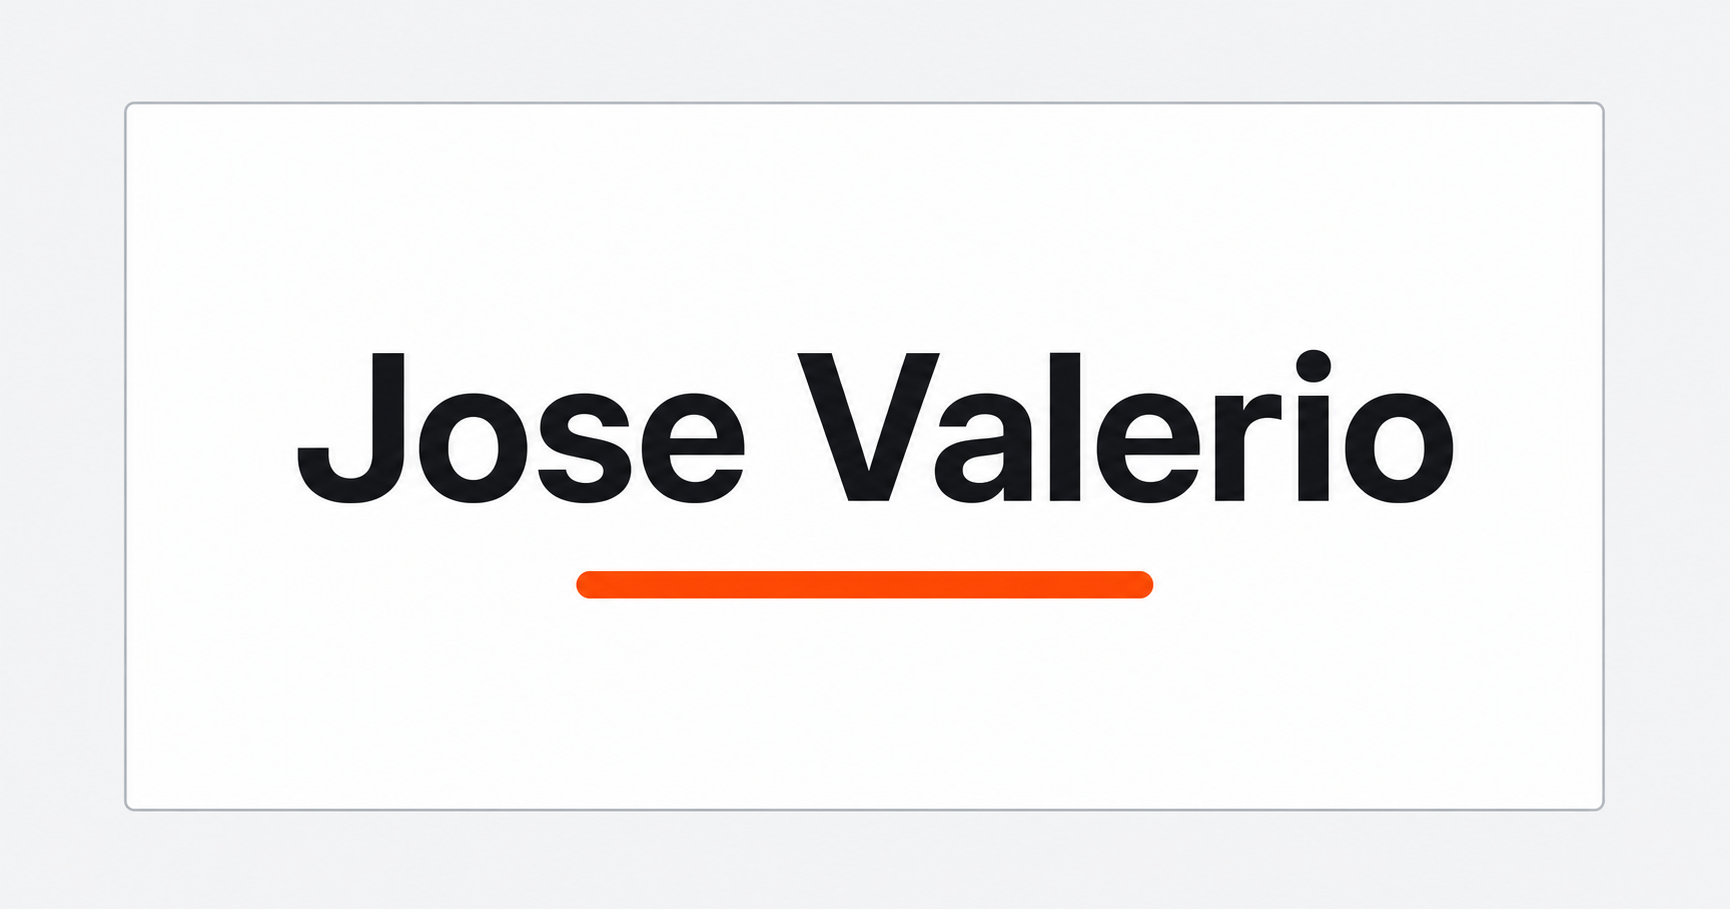
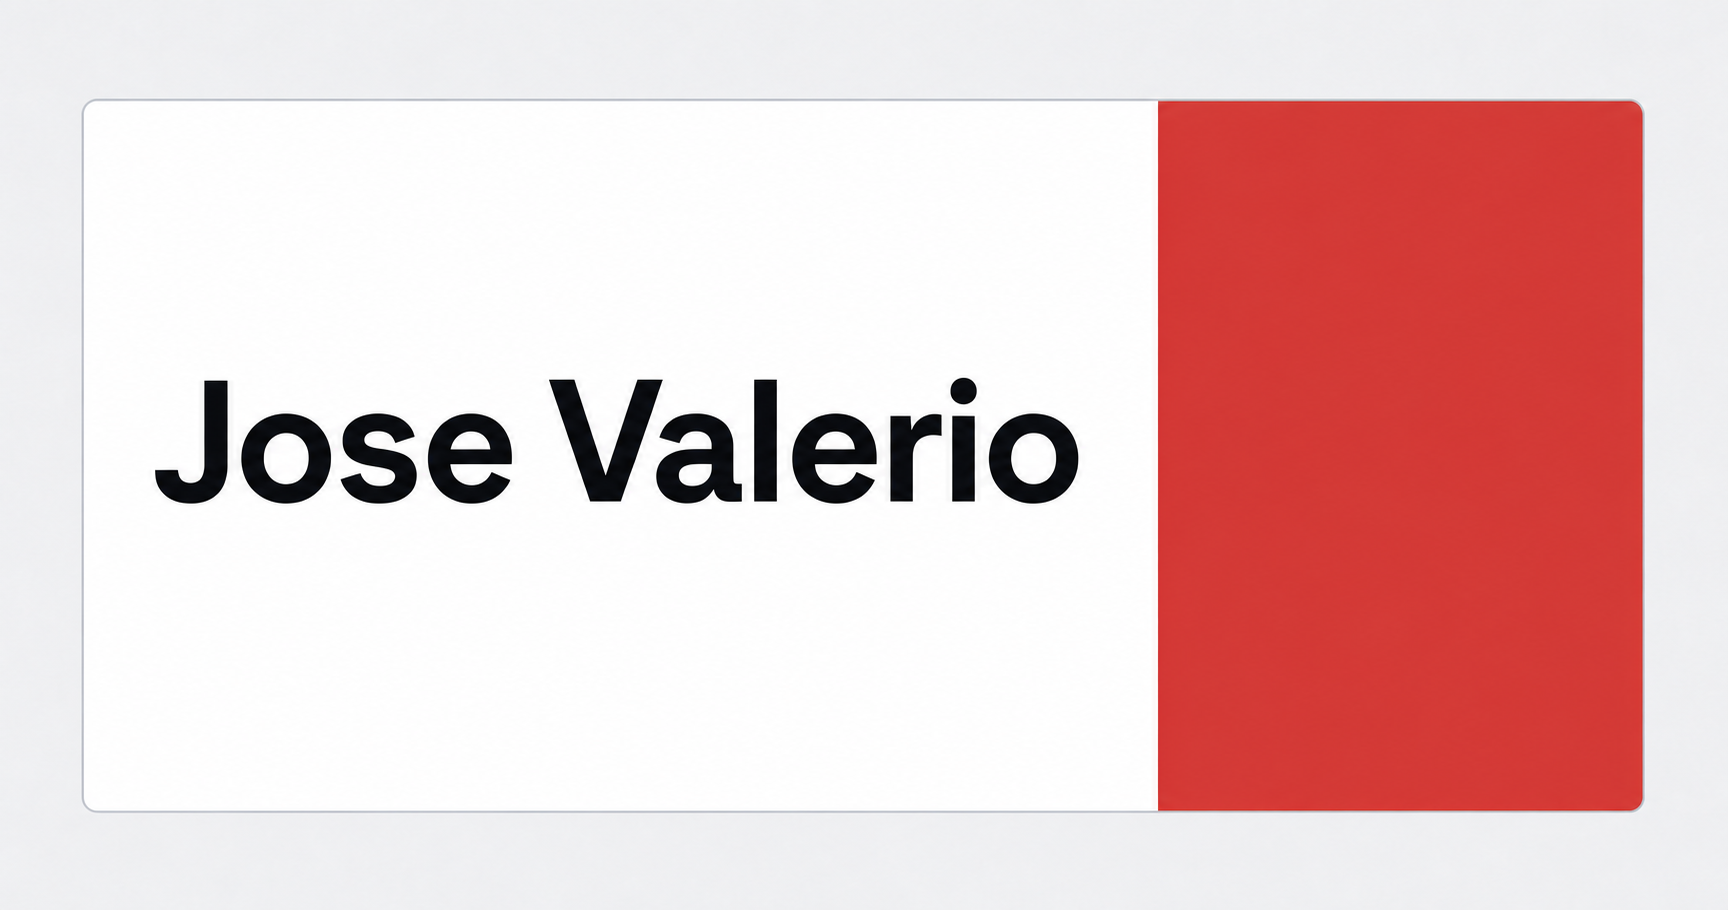
Adopt blood red accent palette

Changed region(s): [[0.0625, 0.0924, 0.9688, 0.8933], [0.0625, 0.8625, 0.0938, 0.8933]]

diff --git a/app/app.css b/app/app.css
@@ -18,8 +18,8 @@
   --muted: #69707b;
   --line: #dfe2e7;
   --line-strong: #c7cbd2;
-  --accent: oklch(64.6% 0.222 41.116);
-  --accent-soft: oklch(96.5% 0.035 41.116);
+  --accent: #d04842;
+  --accent-soft: color-mix(in oklch, var(--accent) 8%, white);
   --sans: "Atkinson Hyperlegible Next Variable", ui-sans-serif, system-ui,
     -apple-system, BlinkMacSystemFont, "Segoe UI", sans-serif;
   --code: "SFMono-Regular", "Cascadia Code", "Roboto Mono", Consolas,
@@ -61,7 +61,7 @@ button {
 }
 
 ::selection {
-  background: oklch(88% 0.08 41.116);
+  background: color-mix(in oklch, var(--accent) 28%, white);
   color: var(--ink);
 }
 
@@ -145,16 +145,6 @@ button {
   font-weight: 700;
   letter-spacing: -0.045em;
   line-height: 1;
-}
-
-.hero-name::after {
-  display: block;
-  width: 3.5rem;
-  height: 0.3rem;
-  margin-top: 1rem;
-  border-radius: 999px;
-  background: var(--accent);
-  content: "";
 }
 
 .email-button {
@@ -461,7 +451,7 @@ button {
 .text-link {
   color: var(--accent);
   text-decoration: underline;
-  text-decoration-color: oklch(78% 0.13 41.116);
+  text-decoration-color: color-mix(in oklch, var(--accent) 48%, white);
   text-decoration-thickness: 1px;
   text-underline-offset: 0.16em;
 }
@@ -472,7 +462,7 @@ button {
 
 .article-callout {
   padding: 1rem 1.1rem;
-  border: 1px solid #f2c3b7;
+  border: 1px solid color-mix(in oklch, var(--accent) 30%, white);
   border-left: 3px solid var(--accent);
   border-radius: 0.2rem;
   background: var(--accent-soft);

diff --git a/app/data/siteMeta.ts b/app/data/siteMeta.ts
@@ -6,11 +6,11 @@ export function getSocialMeta() {
       property: "og:image",
       content: "https://josevalerio.com/og.png",
     },
-    { property: "og:image:width", content: "1730" },
-    { property: "og:image:height", content: "909" },
+    { property: "og:image:width", content: "1728" },
+    { property: "og:image:height", content: "910" },
     {
       property: "og:image:alt",
-      content: "Jose Valerio with a vivid orange underline in a minimal typographic card",
+      content: "Jose Valerio beside a blood-orange red color field in a minimal typographic card",
     },
     { name: "twitter:card", content: "summary_large_image" },
     {
